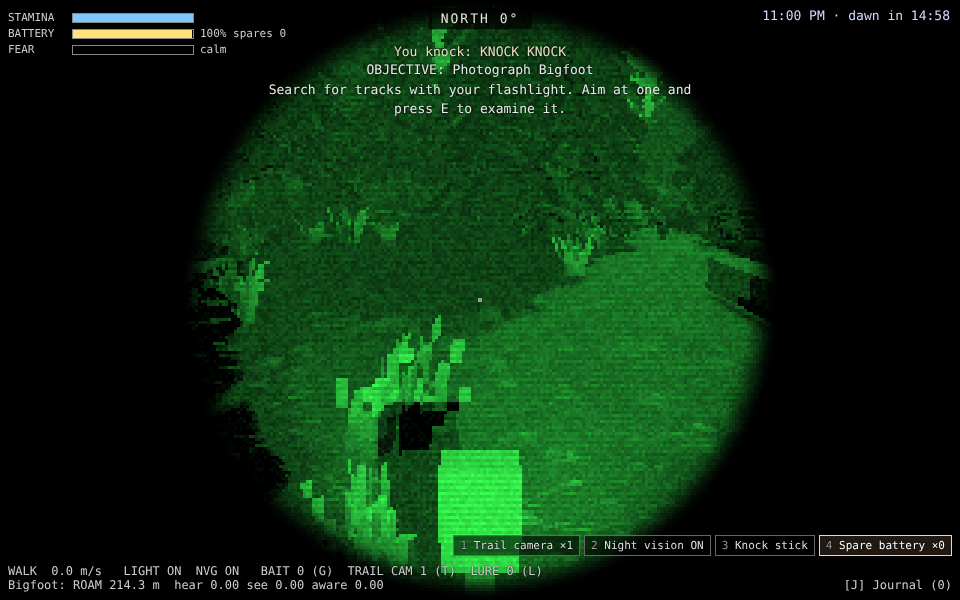
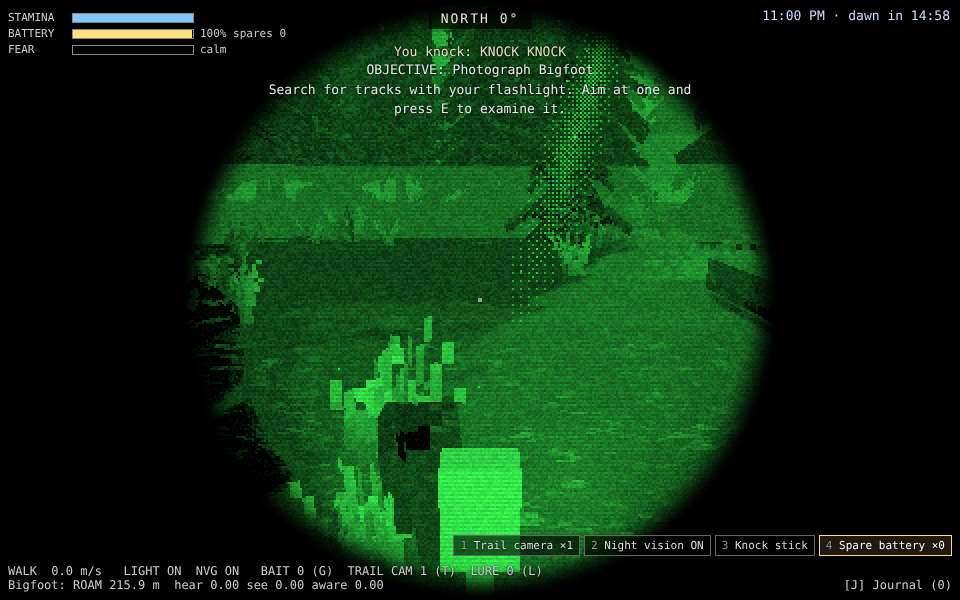
t27 report: PR link
Claude-Session: https://claude.ai/code/session_0163yRzLCrst6QKZAZ52itsT

diff --git a/.ballast/reports/t27.md b/.ballast/reports/t27.md
@@ -5,7 +5,7 @@ STATUS: DONE
 - How to see it: `npm run dev`, click items in the LOADOUT row, start, then press 1–4 and Q.
 - Verified (`npm run check:t27`, real clicks and keys): packing by clicking (a fifth item won't fit); each of the six items equipped and used across two hunts (bait dropped, trail camera set by left-click, lure calling, goggles on, knock answered, battery swapped); the wheel moves between slots; keys for unpacked gear do nothing. The wood-knock and night-vision checks now pack those items first. Heads-up after merging the latest main: the swamp, night-vision, camera and fear checks now fail or time out on main itself too. The new forest art makes headless runs very slow, and the bigger Bigfoot now pokes its head over the 3 m test wall. That isn't caused by this change; I loosened my checks' waits and will fix the camera check's wall case separately. Captures in `.ballast/media/t27/`.
 - Assumptions: no buying yet; the starter kit is free and topped up at camp. "Use" is Q because left-click belongs to the camera. Testers can add `?loadout=nightVision,knockStick,...` to the web address to pack specific gear.
-- PR: (link added once opened)
+- PR: https://github.com/nsmith-gd/cryptidhunter/pull/54
 
 ## Questions
 ### Should the camera and flashlight take up loadout slots too?
